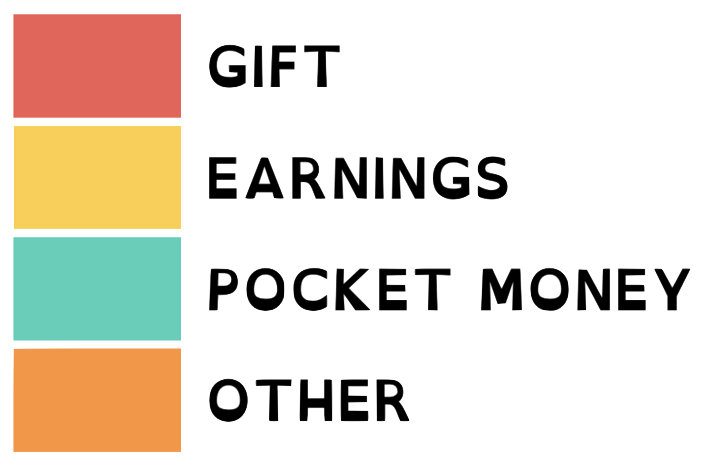
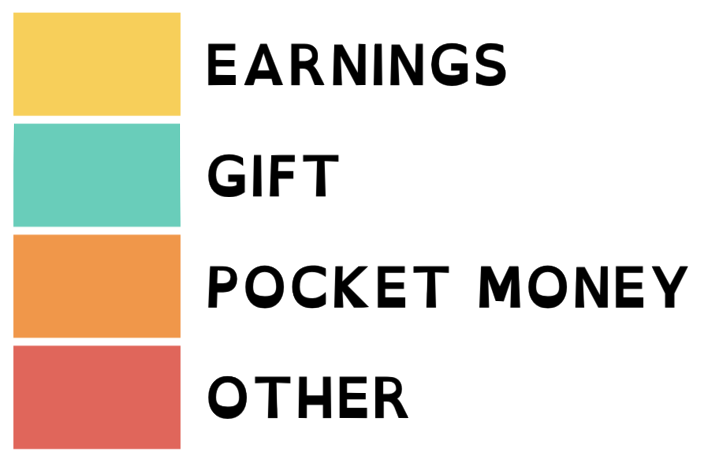
zhu changes

Changed region(s): [[0.0, 0.0, 0.9791, 0.9893]]

diff --git a/components/ChartScreen/Chart.tsx b/components/ChartScreen/Chart.tsx
@@ -1,6 +1,6 @@
 import React, { useState, useEffect } from "react";
-import { View, Text, Image,StyleSheet } from "react-native";
-import { VictoryPie } from "victory-native";
+import { View, Text, Image, StyleSheet } from "react-native";
+import { VictoryPie} from "victory-native";
 
 type ChartProps = {
   currentUser: {
@@ -21,29 +21,29 @@ type ChartProps = {
   setSelectedTab: React.Dispatch<React.SetStateAction<string>>;
 };
 
-
 const Chart: React.FC<ChartProps> = ({
   selectedTab,
   currentUser,
   userTransactions,
 }) => {
-  const [graphicData, setGraphicData] = useState<{ x: string; y: number }[]>([]);
-  
+  const [graphicData, setGraphicData] = useState<{ x: string; y: number; color: string }[]>([]);
+
   useEffect(() => {
     if (userTransactions) {
-      const incomeCategories = [
-        "EARNINGS",
-        "POCKET_MONEY",
-        "GIFT",
-        "OTHER_INCOME",
-      ];
-      const outgoingCategories = [
-        "ENTERTAINMENT",
-        "FOOD",
-        "TRANSPORT",
-        "OTHER_SPEND",
-        "SHOPPING",
-      ];
+      // Define category colors
+      const categoryColors: { [category: string]: string } = {
+        EARNINGS: "#ffcd3c",
+        POCKET_MONEY: "#ff9234",
+        GIFT: "#35d0ba",
+        OTHER_INCOME: "#f15c55",
+        ENTERTAINMENT: "#8154ea",
+        FOOD: "#ffa500",
+        TRANSPORT: "#0099ff",
+        OTHER_SPEND: "#ff69b4",
+        SHOPPING: "#ff6347",
+      };
+
+      // Filter transactions based on selected tab
       let filteredTransactions: {
         id: number;
         category: any;
@@ -51,14 +51,13 @@ const Chart: React.FC<ChartProps> = ({
         user: object;
       }[] = [];
 
-
-      if (selectedTab === "income" ) {
+      if (selectedTab === "income") {
         filteredTransactions = userTransactions.filter((transaction) =>
-        transaction.category && incomeCategories.includes(transaction.category.toUpperCase())
+          transaction.category && transaction.category.toUpperCase() in categoryColors
         );
-      } else if (selectedTab === "outgoing" ) {
+      } else if (selectedTab === "outgoing") {
         filteredTransactions = userTransactions.filter((transaction) =>
-        transaction.category && outgoingCategories.includes(transaction.category.toUpperCase())
+          transaction.category && transaction.category.toUpperCase() in categoryColors
         );
       }
 
@@ -72,80 +71,86 @@ const Chart: React.FC<ChartProps> = ({
           categoryAmounts[category] = transaction.amount;
         }
       });
-      // Convert aggregated data to required format
-      const graphData = Object.entries(categoryAmounts).map(
-        ([category, amount]) => ({
-          x: category,
-          y: amount,
-          label: `£${amount.toFixed(2)}`,
-        })
-      );
+
+      // Convert aggregated data to required format, including the color for each category
+      const graphData = Object.entries(categoryAmounts).map(([category, amount]) => ({
+        x: category,
+        y: amount,
+        label: `£${amount.toFixed(2)}`,
+        color: categoryColors[category.toUpperCase()] || "#cccccc", // Default color if category color is not defined
+      }));
+
       setGraphicData(graphData);
     }
   }, [selectedTab, userTransactions]);
+
   return (
     <View style={styles.container}>
-    <View style={styles.chartContainer}>
-      <VictoryPie
-      standalone={true}
-        padAngle={({ datum }) => datum.y * 0.05}
-        cornerRadius={({ datum }) => datum.y * 0.1}
-        padding={60}
-        width={350}
-        height={350}
-        colorScale={["#ffcd3c", "#ff9234", "#35d0ba", "#f15c55", "#8154ea"]}
-        animate={{ easing: "exp" }}
-        data={graphicData}
-        innerRadius={40}
-        style={{
-          data: {
-            flex:1,
-            fillOpacity: 0.9,
-            strokeWidth: 5,
-          },
-          labels: {
-            fill: "purple",
-            fontSize: 15,
-          },
-        }}
-      />
+      <View style={styles.chartContainer}>
+        <VictoryPie
+          standalone={true}
+          padAngle={({ datum }) => datum.y * 0.05}
+          cornerRadius={({ datum }) => datum.y * 0.1}
+          padding={60}
+          width={350}
+          height={350}
+          colorScale={graphicData.map((datum) => datum.color)}
+          animate={{ easing: "exp" }}
+          data={graphicData}
+          innerRadius={40}
+          style={{
+            data: {
+              flex: 1,
+              fillOpacity: 0.9,
+              strokeWidth: 5,
+            },
+            labels: {
+              fill: "purple",
+              fontSize: 15,
+            },
+          }}
+        />
 
-{selectedTab === "income" && (
-      <View style={styles.imageContainer}>
-        <Image style={styles.img} source={require('../../images/income_legend_720.png')} />
+        {selectedTab === "income" && (
+          <View style={styles.imageContainer}>
+            <Image
+              style={styles.img}
+              source={require("../../images/income_legend_720.png")}
+            />
+          </View>
+        )}
+
+        {selectedTab === "outgoing" && (
+          <View style={styles.imageContainer}>
+            <Image
+              style={styles.img2}
+              source={require("../../images/expenses_legend_720.png")}
+            />
+          </View>
+        )}
       </View>
-    )}
-
-    {selectedTab === "outgoing" && (
-      <View style={styles.imageContainer}>
-        <Image style={styles.img2} source={require('../../images/expenses_legend_720.png')} />
-      </View>
-    )}
-
     </View>
-    </View>
-
   );
 };
+
 export default Chart;
 
 const styles = StyleSheet.create({
-  imageContainer:{
-    marginTop:50
+  imageContainer: {
+    marginTop: 50,
   },
   container: {
     flex: 1,
     justifyContent: "center",
     alignItems: "center",
-    marginTop: 90,
+    marginTop: 30,
   },
   chartContainer: {
     width: 350,
     height: 350,
     marginBottom: 20,
   },
- 
-  img2:{
+  img2: {
     height: 110,
     width: "48%",
   },
@@ -154,6 +159,10 @@ const styles = StyleSheet.create({
     width: "48%",
   },
 });
+
+
+
+
 
 
 

diff --git a/backend/src/main/java/com/capstone/backend/config/FirebaseConfig.java b/backend/src/main/java/com/capstone/backend/config/FirebaseConfig.java
@@ -26,7 +26,7 @@ public class FirebaseConfig {
         if (FirebaseApp.getApps().isEmpty()) {
 
 
-            FileInputStream serviceAccount = new FileInputStream("/Users/bartram/codeclan_work/CAPSTONE PROJECT/capstone_project/backend/src/main/resources/smartsavers-c0852-firebase-adminsdk-8qvm9-c817f7022d.json");
+            FileInputStream serviceAccount = new FileInputStream("/Users/benbilgili/Desktop/codeclan/professional-software/projects/capstone/capstone_project/backend/src/main/resources/smartsavers-c0852-firebase-adminsdk-8qvm9-c817f7022d.json");
 
 
 
